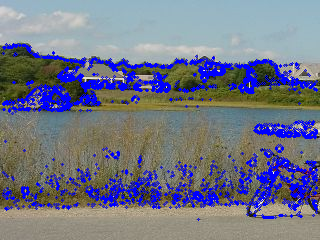
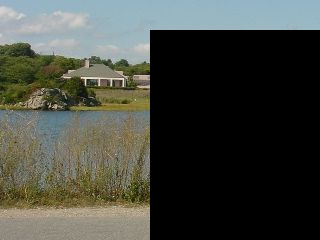
画像の合成プログラムのテスト作成

diff --git a/fast_test.py b/fast_test.py
@@ -3,10 +3,10 @@
 
 import cv2
 import numpy as np
+import fast
 import time
 
 start = time.time()
-
 #画像読み込み
 img = cv2.imread('1-001-1.jpg', cv2.IMREAD_GRAYSCALE)
 img_raw = cv2.imread('1-001-1.jpg')
@@ -21,112 +21,95 @@ n = 12 #周囲の点16点のうち明るさ条件が連続する点の数
 img1_feature = []
 img2_feature = []
 
-#brightness_status取得部分関数化（多分あとで全体をclass化する）
-def get_brightness_status (target, brighness, t):
-  if target > brightness+t:
-    return "bright"
-  elif target < brightness-t:
-    return "dark"
-  else:
-    return "middle"
+fast1 = fast.FAST(img, t, n)
+img1_feature = fast1.get_img_feature()
 
-# #１枚目の画像に関する処理
-height, width = img.shape
+fast2 = fast.FAST(img2, t, n)
+img2_feature = fast2.get_img_feature()
 
-for x in range(width):
-  for y in range(height):
+# for feature in img1_feature:
+#   x,y,f = feature
+#   cv2.circle(img_raw, (x, y), 1, (0, 0, 255), thickness=-1)
 
-    # #上下左右3ピクセルはアルゴリズムが適用できないのでのぞく
-    if x in [0,1,2,317,318,319] or y in [0,1,2,237,238,239]:
-        continue
-
-    brightness = img[y][x] #基準となる明るさ
-
-    brightness_around_array = np.array(
-      [
-        img[y-3][x],
-        img[y-3][x+1],
-        img[y-2][x+2],
-        img[y-1][x+3],
-        img[y][x+3],
-        img[y+1][x+3],
-        img[y+2][x+2],
-        img[y+3][x+1],
-        img[y+3][x],
-        img[y+3][x-1],
-        img[y+2][x-2],
-        img[y+1][x-3],
-        img[y][x-3],
-        img[y-1][x-3],
-        img[y-2][x-2],
-        img[y-3][x-1]
-      ]
-    )
-
-    #高速化プログラム(本来n>12の時適用)#######################################################
-    brightness_status_array = [0,0]
-
-    for i in [0,4,8,12]:
-      brightness_status = get_brightness_status(brightness_around_array[i], brightness, t)
-      if brightness_status == "bright":
-        brightness_status_array[0] += 1 
-      elif brightness_status == "dark":
-        brightness_status_array[1] += 1
-
-      #明るい点が2点の場合break
-      if not (brightness_status_array[0]>2 or brightness_status_array[1]>2):
-        continue
-    ######################################################################################
-
-    sequence_num = 0 #連続する数字
-    sequence_num_current = 0 #連続する数字の一時保存領域
-    brightness_status ="middle"
-    brightness_status_before = "middle"
-
-    #0部分のbrightness statusをここで定義(あとで関数化)
-    brightness_status_before = get_brightness_status(brightness_around_array[0], brightness, t)
-
-    #要素数16に対して32回分計算（最初と最後で連番になっていることを考慮）
-    for i in range(32):
-
-      #2周目を考慮
-      if i >= 16:
-        index = i - 16
-      else:
-        index = i
-
-      #0部分のbrightness statusをここで定義(あとで関数化)
-      brightness_status = get_brightness_status(brightness_around_array[index], brightness, t)
-
-      #前の要素の明るさが中間値でなく、かつ前の要素と一致する場合
-      if brightness_status != "middle" and brightness_status_before == brightness_status:
-        sequence_num_current += 1
-
-      else: #前の要素と明るさに関する要件が一致しない
-
-        #sequence_numが最大値の場合はsequence_numに移してからリセット
-        if sequence_num_current > sequence_num:
-          sequence_num = sequence_num_current
-          
-        sequence_num_current = 1
-      
-      #brightness_statusの更新
-      brightness_status_before = brightness_status
-
-    if sequence_num > n:
-      cv2.circle(img_raw, (x,y), 1, (255, 0, 0), thickness=1, lineType=cv2.LINE_8, shift=0)
-      img1_feature.append((x,y))
-
-print("process1 finished")
-
-#非最大値抑制を入れる
+# for feature in img2_feature:
+#   x,y,f = feature
+#   cv2.circle(img_raw2, (x, y), 1, (0, 0, 255), thickness=-1)
 
 elapsed_time = time.time() - start
 print ("elapsed_time:{0}".format(elapsed_time) + "[sec]")
 
+    
 
-cv2.imshow("result1", img_raw)
+crtical_feature_array = []
 
+min_feature1 = (0,0)
+min_feature2 = (0,0)
+min_diff = 1000000000
+for feature1 in img1_feature:
+  x1,y1,f1 = feature1
+  for feature2 in img2_feature:
+    x2,y2,f2 = feature2
+    brightness_around_array = np.array(
+      [
+        int(img[y1-3][x1]),
+        int(img[y1-3][x1+1]),
+        int(img[y1-2][x1+2]),
+        int(img[y1-1][x1+3]),
+        int(img[y1][x1+3]),
+        int(img[y1+1][x1+3]),
+        int(img[y1+2][x1+2]),
+        int(img[y1+3][x1+1]),
+        int(img[y1+3][x1]),
+        int(img[y1+3][x1-1]),
+        int(img[y1+2][x1-2]),
+        int(img[y1+1][x1-3]),
+        int(img[y1][x1-3]),
+        int(img[y1-1][x1-3]),
+        int(img[y1-2][x1-2]),
+        int(img[y1-3][x1-1])
+      ]
+    )
+
+    brightness_around_array2 = np.array(
+      [
+        int(img2[y2-3][x2]),
+        int(img2[y2-3][x2+1]),
+        int(img2[y2-2][x2+2]),
+        int(img2[y2-1][x2+3]),
+        int(img2[2][x2+3]),
+        int(img2[y2+1][x2+3]),
+        int(img2[y2+2][x2+2]),
+        int(img2[y2+3][x2+1]),
+        int(img2[y2+3][x2]),
+        int(img2[y2+3][x2-1]),
+        int(img2[y2+2][x2-2]),
+        int(img2[y2+1][x2-3]),
+        int(img2[y2][x2-3]),
+        int(img2[y2-1][x2-3]),
+        int(img2[y2-2][x2-2]),
+        int(img2[y2-3][x2-1])
+      ]
+    )
+    diff = np.sum(np.abs(brightness_around_array-brightness_around_array2))
+    if min_diff > diff:
+        min_diff = diff
+        min_feature1 = (x1,y1)
+        min_feature2 = (x2,y2)
+
+print(min_feature1)
+print(min_feature2)
+
+cv2.circle(img_raw, min_feature1, 2, (0, 0, 255), thickness=-1)
+cv2.circle(img_raw2, min_feature2, 2, (0, 0, 255), thickness=-1)
+   
+cv2.imshow("result",img_raw)
+cv2.imshow("result2",img_raw2)
+
+
+
+
+
+    
 k = cv2.waitKey(0)
 if k == 27:         # wait for ESC key to exit
     cv2.destroyAllWindows()

diff --git a/fast.py b/fast.py
@@ -1,0 +1,115 @@
+# coding: UTF-8
+
+import cv2
+import numpy as np
+
+class FAST:
+  def __init__(self, img, t, n):
+    self.img = img
+    self.t = t
+    self.n = n
+
+  def get_img_feature(self):
+
+    img = self.img
+    img_feature= []
+    height, width = img.shape
+
+    for x in range(width):
+      for y in range(height):
+
+        # #上下左右3ピクセルはアルゴリズムが適用できないのでのぞく
+        if x in [0,1,2,width-3,width-2,width-1] or y in [0,1,2,height-3,height-2,height-1]:
+            continue
+
+        brightness = self.img[y][x] #基準となる明るさ
+
+        brightness_around_array = np.array(
+          [
+            int(img[y-3][x]),
+            int(img[y-3][x+1]),
+            int(img[y-2][x+2]),
+            int(img[y-1][x+3]),
+            int(img[y][x+3]),
+            int(img[y+1][x+3]),
+            int(img[y+2][x+2]),
+            int(img[y+3][x+1]),
+            int(img[y+3][x]),
+            int(img[y+3][x-1]),
+            int(img[y+2][x-2]),
+            int(img[y+1][x-3]),
+            int(img[y][x-3]),
+            int(img[y-1][x-3]),
+            int(img[y-2][x-2]),
+            int(img[y-3][x-1])
+          ]
+        )
+
+        # #現状これがないほうが早く動くんだよなぁ..
+        # #高速化プログラム(本来n>12の時適用)#######################################################
+        # brightness_status_array = [0,0]
+
+        # for i in [0,4,8,12]:
+        #   brightness_status = self.__get_brightness_status(brightness_around_array[i], brightness, self.t)
+        #   if brightness_status == "bright":
+        #     brightness_status_array[0] += 1 
+        #   elif brightness_status == "dark":
+        #     brightness_status_array[1] += 1
+
+        #   #明るい点が2点の場合break
+        #   if not (brightness_status_array[0]>2 or brightness_status_array[1]>2):
+        #     continue
+        # ######################################################################################
+
+        sequence_num = 0 #連続する数字
+        sequence_num_current = 0 #連続する数字の一時保存領域
+        brightness_status ="middle"
+        brightness_status_before = "middle"
+
+        #0部分のbrightness statusをここで定義
+        brightness_status_before = self.__get_brightness_status(brightness_around_array[0], brightness, self.t)
+
+        #要素数16に対して32回分計算（最初と最後で連番になっていることを考慮）
+        for i in range(32):
+
+          #2周目を考慮
+          if i >= 16:
+            index = i - 16
+          else:
+            index = i
+
+          #0部分のbrightness statusをここで定義
+          brightness_status = self.__get_brightness_status(brightness_around_array[index], brightness, self.t)
+
+          #前の要素の明るさが中間値でなく、かつ前の要素と一致する場合
+          if brightness_status != "middle" and brightness_status_before == brightness_status:
+            sequence_num_current += 1
+
+          else: #前の要素と明るさに関する要件が一致しない
+
+            #sequence_numが最大値の場合はsequence_numに移してからリセット
+            if sequence_num_current > sequence_num:
+              sequence_num = sequence_num_current
+              
+            sequence_num_current = 1
+          
+          #brightness_statusの更新
+          brightness_status_before = brightness_status
+
+        if sequence_num > self.n:
+          #特徴量を作成
+          feature = np.sum(brightness_around_array-brightness)
+          print(feature)
+          img_feature.append((x,y,feature))
+
+    print("feature detect process finished")
+    return img_feature
+
+  #brightness_status取得部分
+  def __get_brightness_status (self, target, brightness, t):
+    if target > brightness+t:
+      return "bright"
+    elif target < brightness-t:
+      return "dark"
+    else:
+      return "middle"

diff --git a/process_img.py b/process_img.py
@@ -1,0 +1,48 @@
+# coding: UTF-8 
+
+import cv2
+import numpy as np
+import fast
+
+width_cros = 170
+height_cros = 210
+
+img = cv2.imread('1-001-1.jpg', cv2.IMREAD_GRAYSCALE)
+img_raw = cv2.imread('1-001-1.jpg')
+img2 = cv2.imread('1-001-2.jpg', cv2.IMREAD_GRAYSCALE)
+img_raw2 = cv2.imread('1-001-2.jpg')
+
+
+height1, width1, color1 = img_raw.shape
+height2, width2, color2 = img_raw.shape
+
+
+#１枚目の画像に関する処理
+for x in range(width1-width_cros, width1):
+  for y in range(height1-height_cros, height1):
+    img_raw[y][x] = [0,0,0]
+
+zero_row = np.zeros((height2-height_cros,width1,3)).astype(np.uint8)
+img3 = np.concatenate([img_raw, zero_row],0)
+zero_col = np.zeros((img3.shape[0],width2-width_cros,3)).astype(np.uint8)
+img4 = np.concatenate([img3, zero_col],1)
+
+#2枚目の画像に関する処理
+zero_row2 = np.zeros((height1-height_cros,width2,3)).astype(np.uint8)
+img5 = np.concatenate([zero_row2, img_raw2],0)
+zero_col2 = np.zeros((img5.shape[0],width1-width_cros,3)).astype(np.uint8)
+img6 = np.concatenate([zero_col2, img5],1)
+
+
+img7 = img4+img6
+
+cv2.imshow("result2",img4)
+cv2.imshow("result3",img6)
+cv2.imshow("result4",img7)
+    
+k = cv2.waitKey(0)
+if k == 27:         # wait for ESC key to exit
+    cv2.destroyAllWindows()
+elif k == ord('s'): # wait for 's' key to save and exit
+    cv2.imwrite('messigray2.png',img7)
+    cv2.destroyAllWindows()
